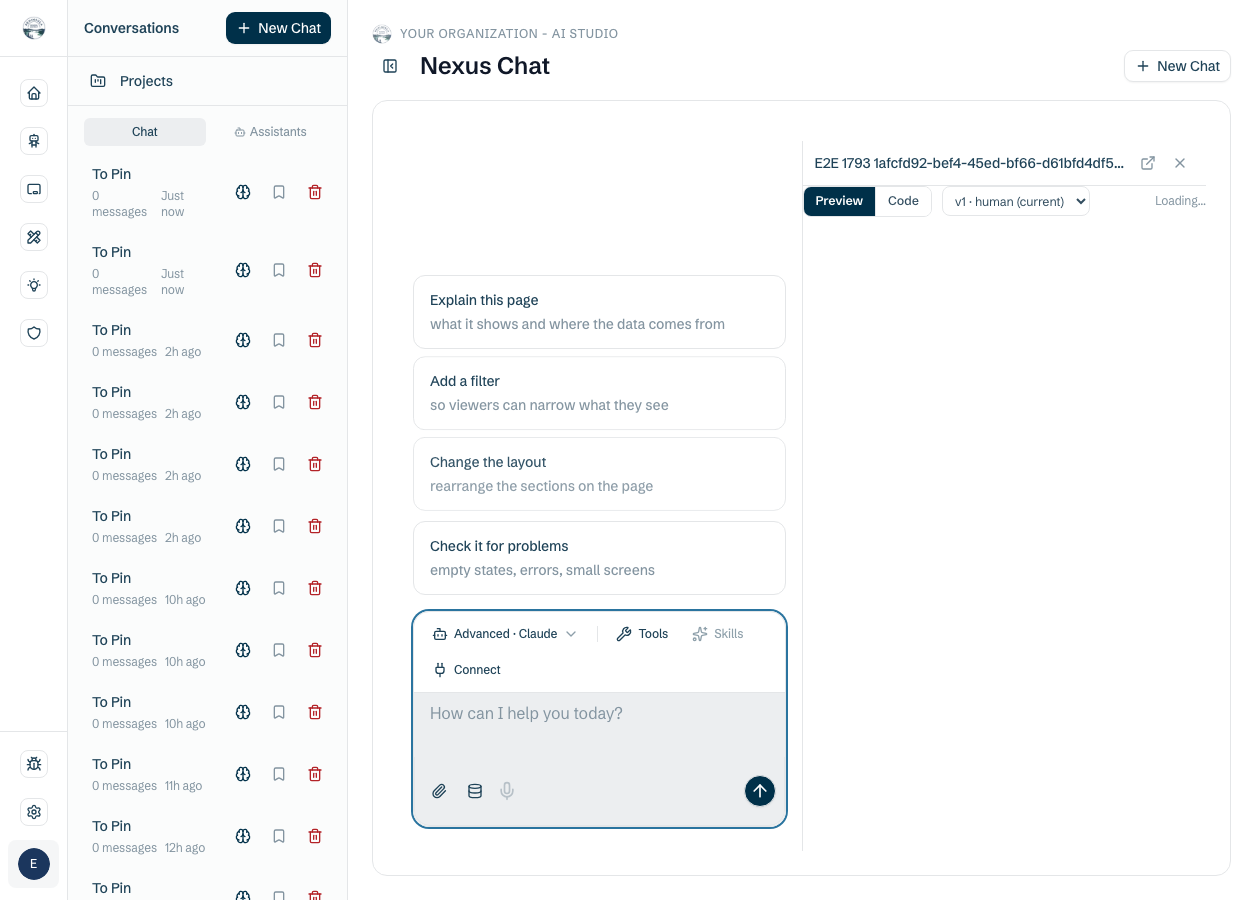
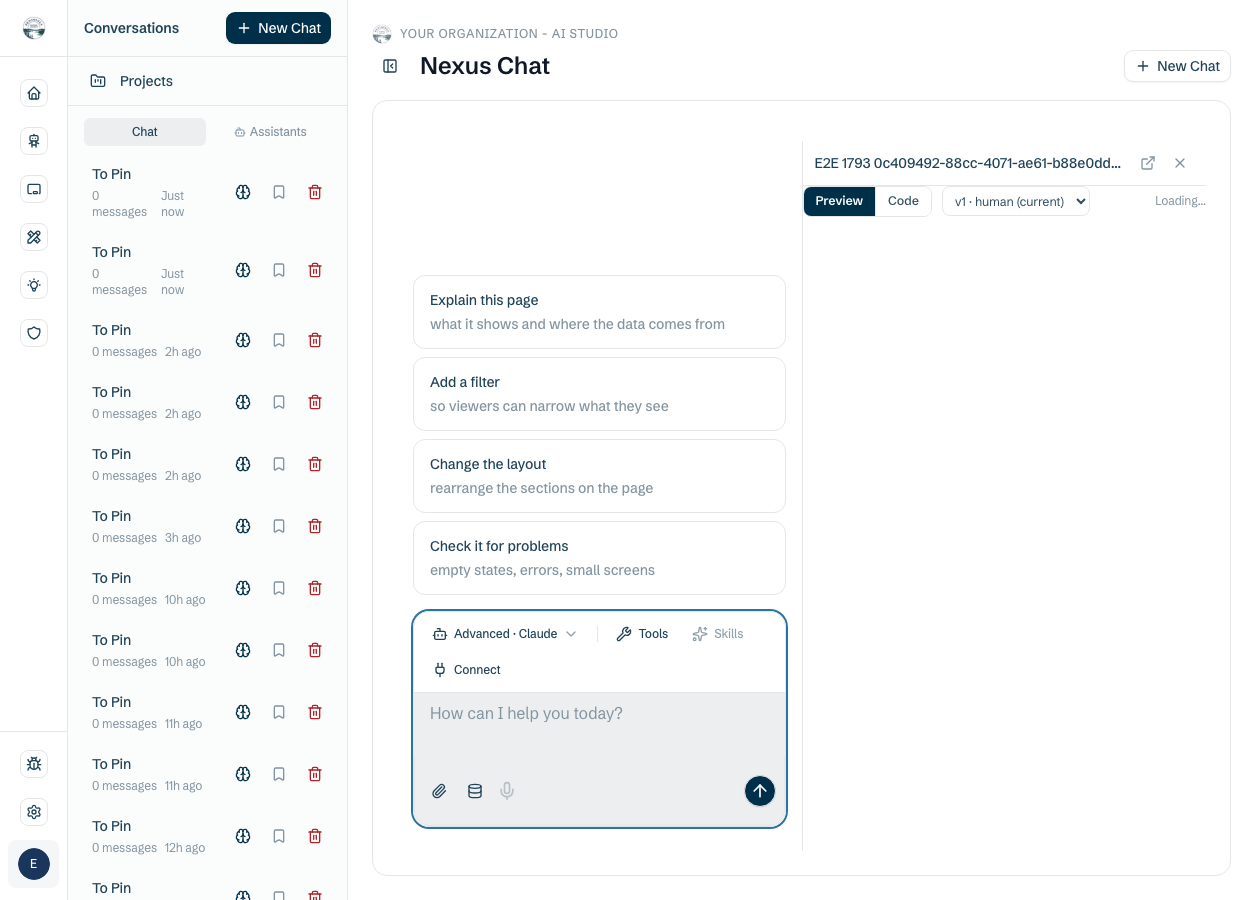
review: #1793 - make the divider's announced axis, value and keys agree
Two more from the PR review.

1. Codex P2 - the handle announced itself as a VERTICAL slider while responding
   only to Left/Right, and in the direction opposite the slider convention
   (Left raised the reported number). Assistive technology was therefore
   pointing users at Up/Down, which did nothing, and the keys that did work
   moved the value the wrong way.

   The control now exposes the DIVIDER's position from the left of the split
   rather than the panel's width, which makes the convention and the spatial
   meaning the same thing: Right/Up move the divider right and the panel
   narrows, Left/Down move it left and the panel widens. It is announced
   `aria-orientation="horizontal"`, labelled "Workspace panel divider", accepts
   Up/Down as well as Left/Right, and carries an `aria-valuetext` that states
   the panel's share in plain words, since a bare divider percentage is not
   what the user is actually choosing.

2. CodeQL "superfluous trailing arguments" on the ResizeObserver callback. The
   two-parameter callback is correct per spec, but the alert is avoidable and
   the repo already has a precedent: `use-presence.ts` re-measures the element
   in a zero-argument callback. Doing the same here keeps one source of truth
   for the number and clears the alert.

tests/e2e/nexus-workspace-panel-layout.functional.spec.ts: a new case focuses
the handle (proving it is tab-reachable), presses ArrowLeft and asserts the
[…]

diff --git a/components/atrium/WorkspaceResizeHandle.tsx b/components/atrium/WorkspaceResizeHandle.tsx
@@ -101,12 +101,21 @@ export function WorkspaceResizeHandle({
 
   const handleKeyDown = useCallback(
     (event: React.KeyboardEvent<HTMLDivElement>) => {
-      // Left widens the panel (the divider moves left), right narrows it.
-      const direction =
-        event.key === "ArrowLeft" ? 1 : event.key === "ArrowRight" ? -1 : 0;
-      if (direction === 0) return;
+      // The value this control exposes is the DIVIDER's position from the left
+      // (see the aria-* below), so the slider convention and the spatial
+      // meaning agree: Right/Up move the divider right and the panel narrows,
+      // Left/Down move it left and the panel widens. Up/Down are accepted as
+      // well as Left/Right because a slider is expected to answer to both.
+      const towardsRight =
+        event.key === "ArrowRight" || event.key === "ArrowUp"
+          ? 1
+          : event.key === "ArrowLeft" || event.key === "ArrowDown"
+            ? -1
+            : 0;
+      if (towardsRight === 0) return;
       event.preventDefault();
-      const next = widthPct + direction * KEYBOARD_STEP_PCT;
+      // Divider right = panel smaller, hence the sign flip.
+      const next = widthPct - towardsRight * KEYBOARD_STEP_PCT;
       onResize(next);
       onCommit(next);
     },
@@ -121,11 +130,19 @@ export function WorkspaceResizeHandle({
       // `slider` is interactive, takes the same aria-value* contract, and
       // announces exactly what this control does — move a value with arrows.
       role="slider"
-      aria-orientation="vertical"
-      aria-label="Resize workspace panel"
-      // The consumer clamps, so the rendered fraction is always within range;
-      // rounding keeps the announced value from reading as noise.
-      aria-valuenow={Math.round(widthPct * 100)}
+      // HORIZONTAL: the value moves along the horizontal axis, and the keys
+      // that change it are Left/Right (plus Up/Down, per the slider pattern).
+      // Announcing "vertical" would point a screen-reader user at the axis the
+      // control does not travel on.
+      aria-orientation="horizontal"
+      aria-label="Workspace panel divider"
+      // The DIVIDER's position as a percentage from the left of the split, not
+      // the panel's width — so a larger value means the divider is further
+      // right, which is what "increase" has to mean for a horizontal slider.
+      // The consumer clamps, so it is always in range; rounding keeps the
+      // announced value from reading as noise.
+      aria-valuenow={Math.round((1 - widthPct) * 100)}
+      aria-valuetext={`Workspace panel ${Math.round(widthPct * 100)}% of the width`}
       aria-valuemin={0}
       aria-valuemax={100}
       tabIndex={0}

diff --git a/tests/e2e/nexus-workspace-panel-layout.functional.spec.ts b/tests/e2e/nexus-workspace-panel-layout.functional.spec.ts
@@ -137,10 +137,12 @@ test.describe("Nexus workspace panel layout (#1793)", () => {
     const narrowContainer = await splitWidth();
     const narrowPanel = await panelWidth();
     expect(narrowContainer - narrowPanel).toBeGreaterThanOrEqual(319);
-    // The handle announces what is on screen, not the stored preference.
+    // The handle announces what is on screen, not the stored preference. Its
+    // value is the DIVIDER's position from the left, so it is the complement of
+    // the panel's share of the split.
     const announced = await handle.getAttribute("aria-valuenow");
     expect(Number(announced)).toBeCloseTo(
-      Math.round((narrowPanel / narrowContainer) * 100),
+      Math.round((1 - narrowPanel / narrowContainer) * 100),
       0
     );
 
@@ -153,6 +155,35 @@ test.describe("Nexus workspace panel layout (#1793)", () => {
       path: ".verification/1793-workspace-panel-resized.png",
       fullPage: false,
     });
+  });
+
+  test("the divider is reachable and moves the right way from the keyboard", async ({
+    page,
+  }) => {
+    const id = await createArtifact(page);
+    await page.goto(`/nexus?workspace=${id}`);
+    const panel = page.getByTestId("workspace-panel");
+    await expect(panel).toBeVisible({ timeout: 60_000 });
+    const panelWidth = async () =>
+      panel.evaluate((el) => el.getBoundingClientRect().width);
+
+    const handle = page.getByTestId("workspace-resize-handle");
+    await handle.focus();
+    await expect(handle).toBeFocused();
+
+    // The exposed value is the divider's position from the left, so Left moves
+    // it left — the panel grows and the announced value goes DOWN.
+    const before = await panelWidth();
+    const valueBefore = Number(await handle.getAttribute("aria-valuenow"));
+    await page.keyboard.press("ArrowLeft");
+    expect(await panelWidth()).toBeGreaterThan(before);
+    expect(
+      Number(await handle.getAttribute("aria-valuenow"))
+    ).toBeLessThan(valueBefore);
+
+    await page.keyboard.press("ArrowRight");
+    await page.keyboard.press("ArrowRight");
+    expect(await panelWidth()).toBeLessThan(before);
   });
 
   test("the composer dock and the starter cards fit the narrowed chat column", async ({

diff --git a/components/atrium/use-workspace-panel-width.ts b/components/atrium/use-workspace-panel-width.ts
@@ -79,14 +79,14 @@ export function useWorkspacePanelWidth(): WorkspacePanelWidth {
   useEffect(() => {
     const parent = asideRef.current?.parentElement;
     if (!parent) return;
-    setContainerWidth(parent.getBoundingClientRect().width);
+    const measure = () => setContainerWidth(parent.getBoundingClientRect().width);
+    measure();
     // Absent in some test environments (jsdom) — the CSS bounds still hold, so
     // degrade to the unobserved behaviour rather than throwing.
     if (typeof ResizeObserver === "undefined") return;
-    const observer = new ResizeObserver((entries) => {
-      const entry = entries[0];
-      if (entry) setContainerWidth(entry.contentRect.width);
-    });
+    // Re-measures the element rather than reading the entry, matching
+    // `use-presence.ts` and keeping one source of truth for the number.
+    const observer = new ResizeObserver(measure);
     observer.observe(parent);
     return () => observer.disconnect();
   }, []);
